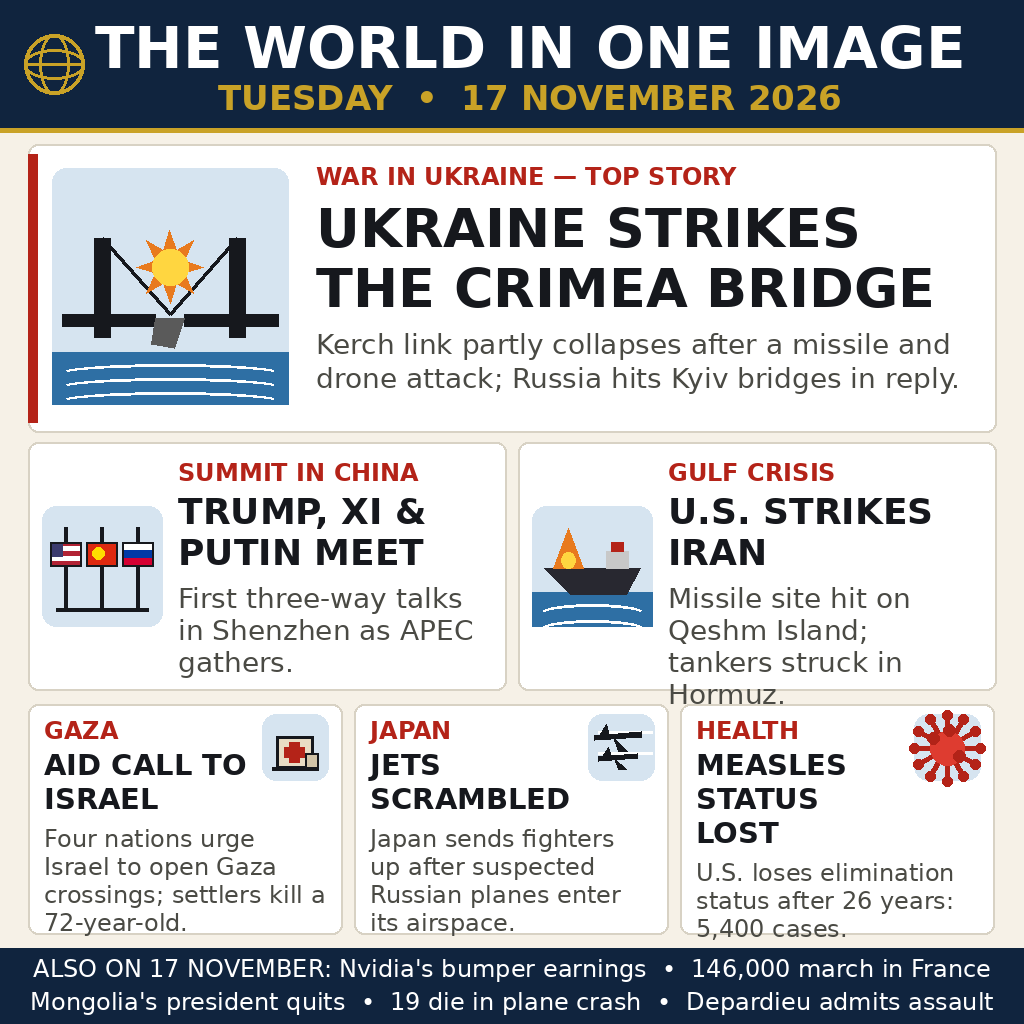
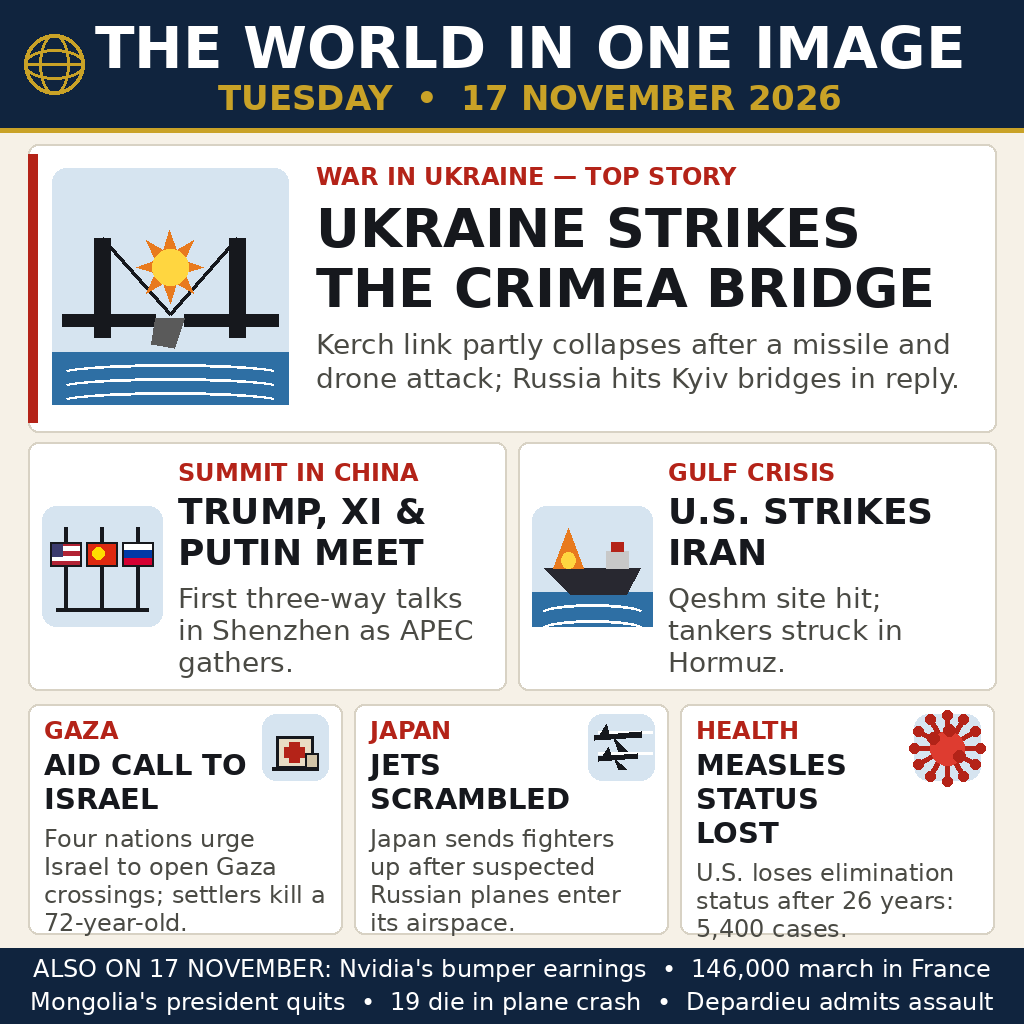
Fix Gulf card text overflow; owner claim to user wallet

Changed region(s): [[0.6562, 0.5625, 0.9062, 0.6875]]

diff --git a/generate_image.py b/generate_image.py
@@ -299,7 +299,7 @@ def build():
          "First three-way talks in Shenzhen as APEC gathers.",
          pic_flags),
         ("GULF CRISIS", "U.S. STRIKES IRAN",
-         "Missile site hit on Qeshm Island; tankers struck in Hormuz.",
+         "Qeshm site hit; tankers struck in Hormuz.",
          pic_tanker),
     ]
     for (x0, x1), (kick, head, sub, pic) in zip(mid_cards, mid):
